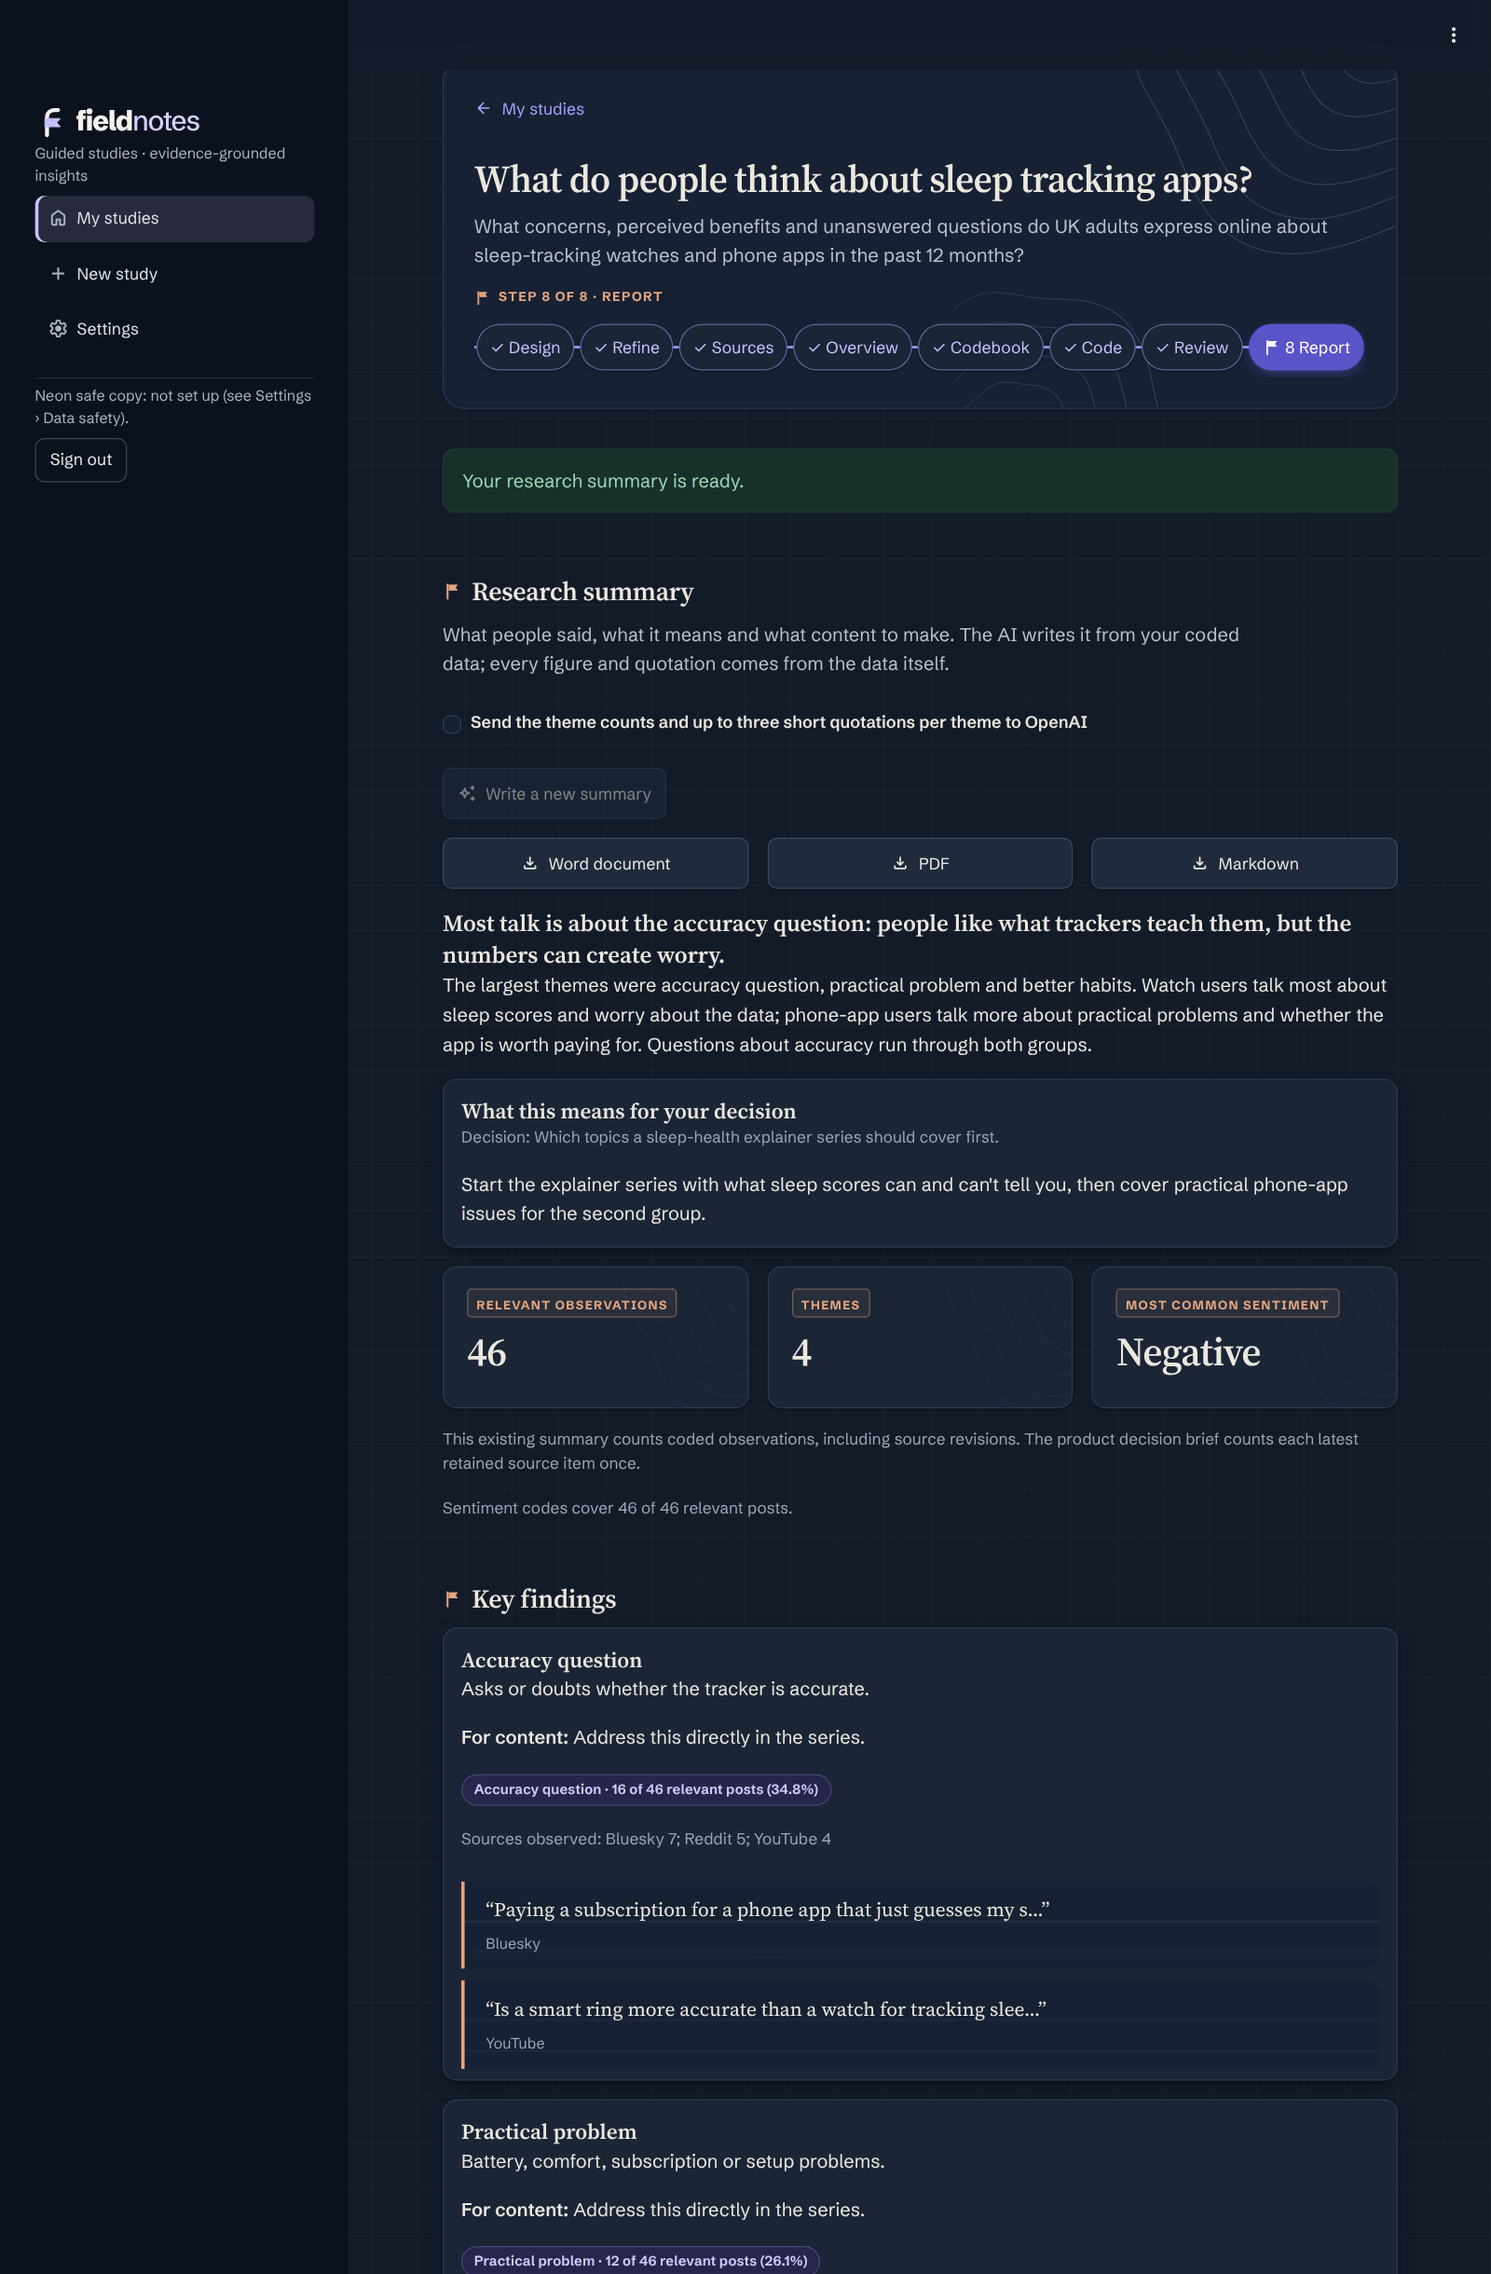
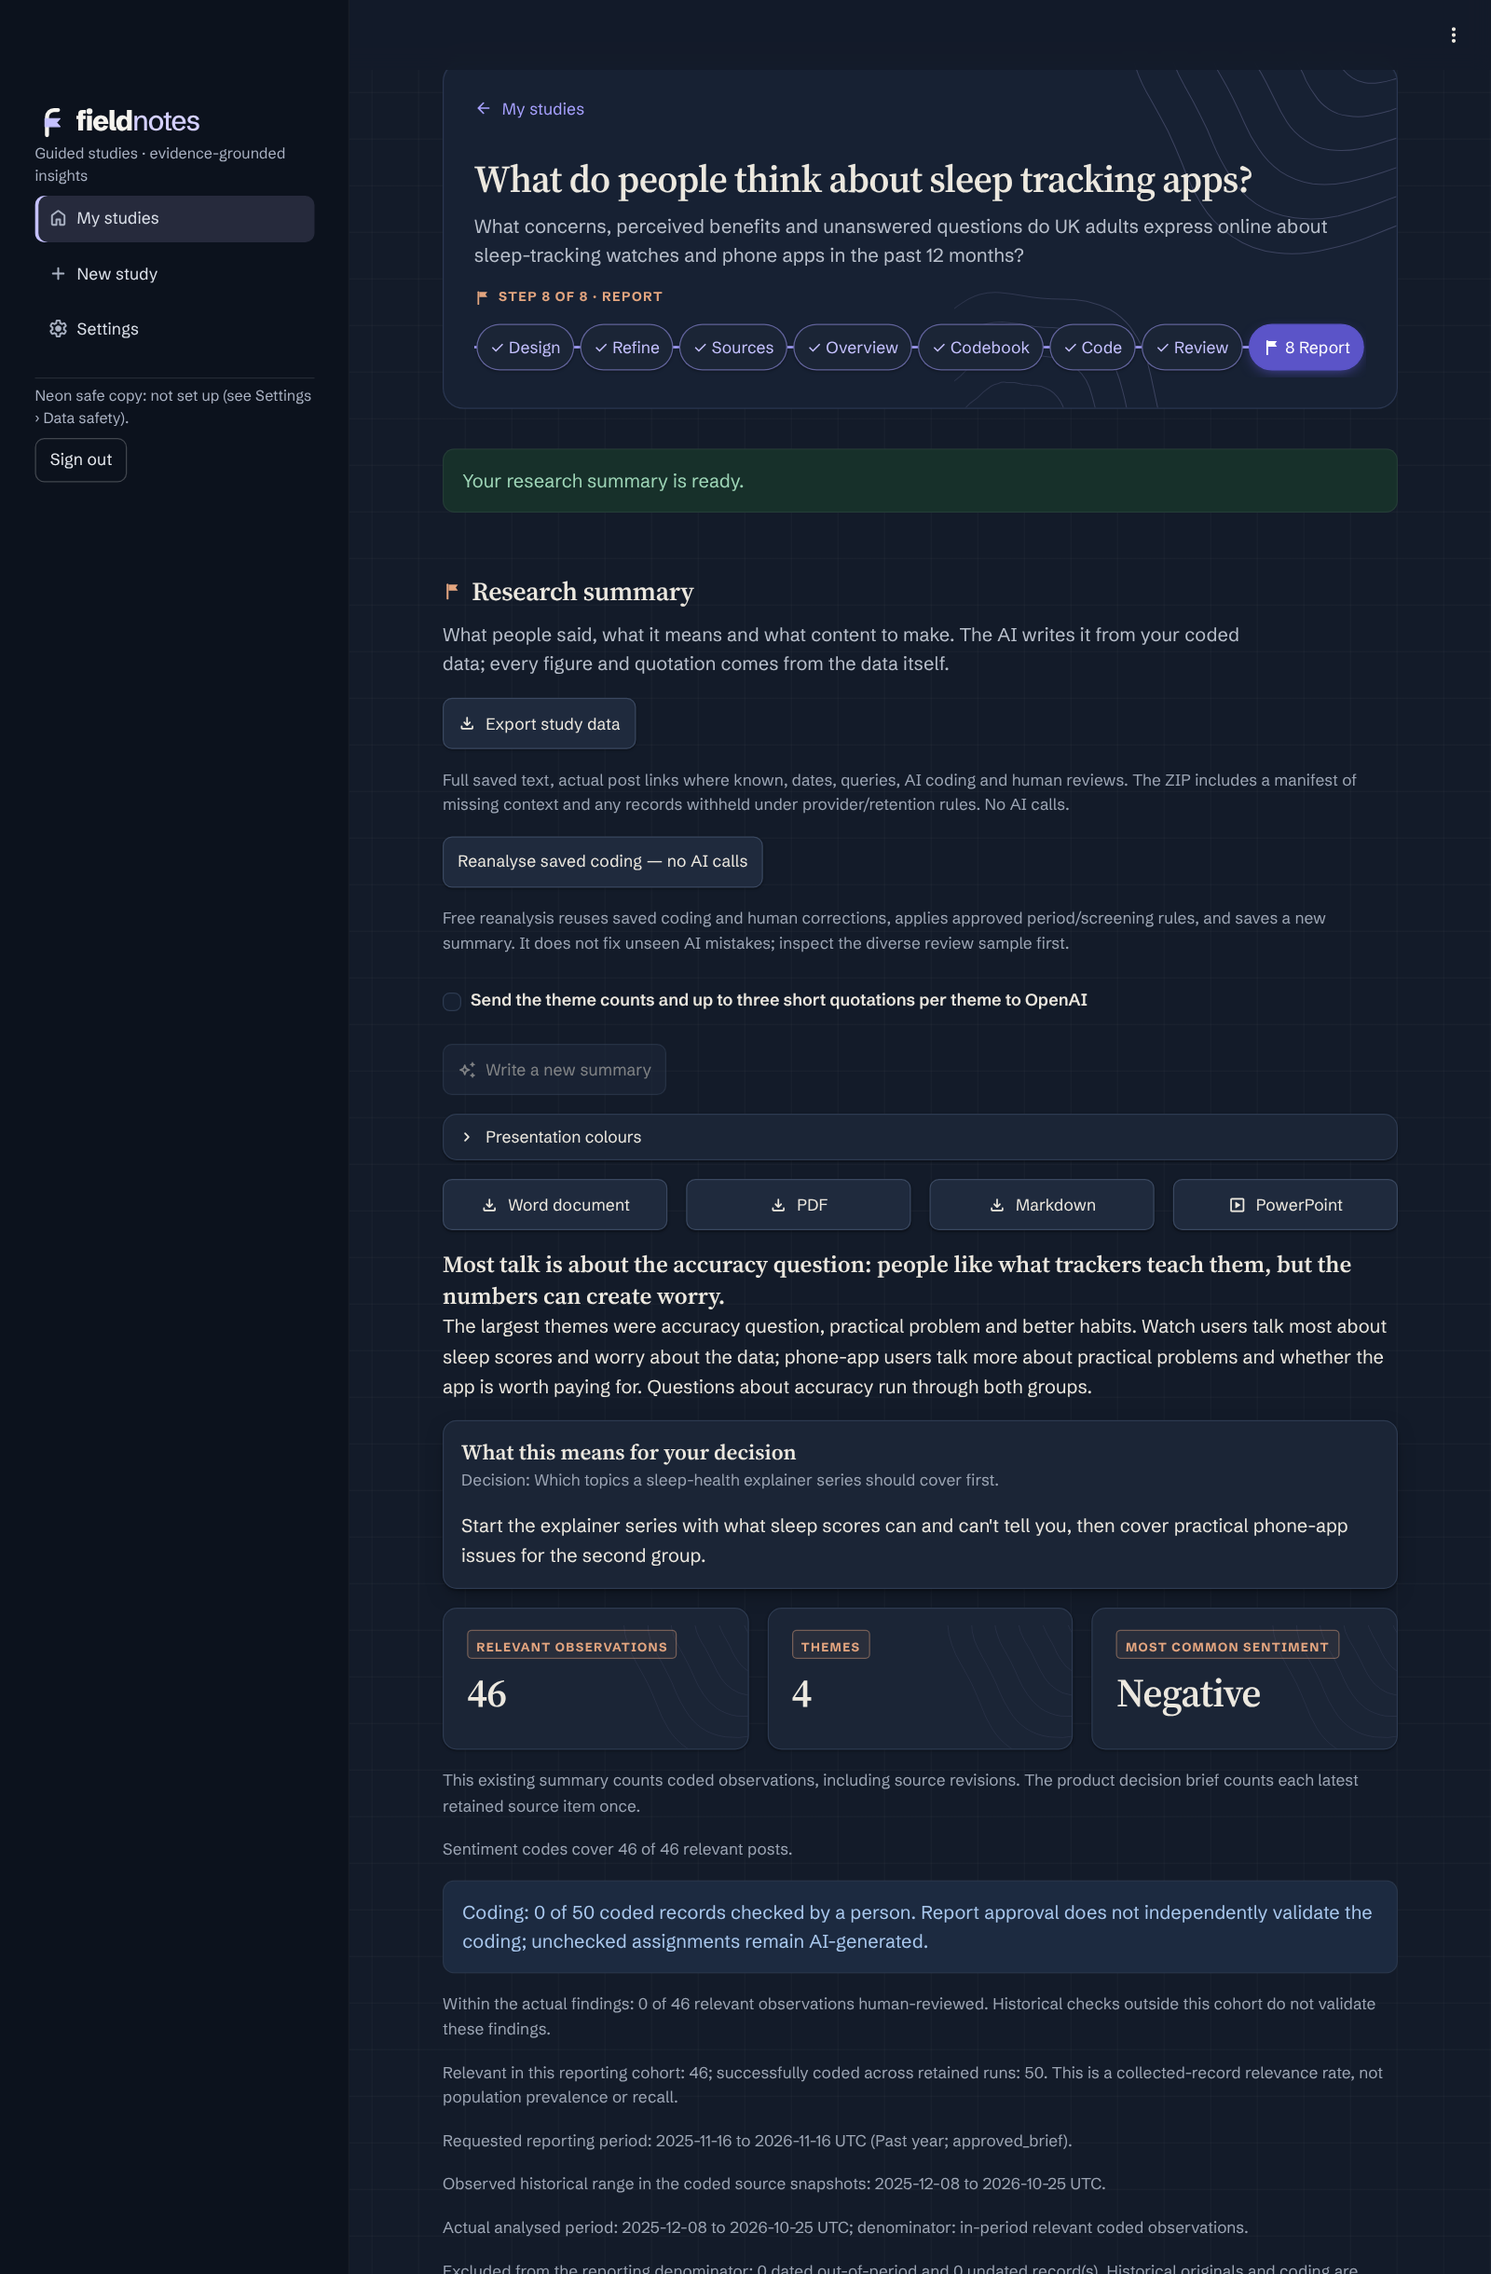
Showcase: detailed briefs, site searches, posts from Grok and Meta AI, raw-data downloads
- Design: start a study from a detailed research brief (new screenshot), and
  the default exclusions new studies start with.
- Sources: TikTok, YouTube, Instagram, Quora and Medium site searches through
  Brave; automatic saving for feed, Hacker News and Stack Exchange searches,
  with Stack Exchange answers and comments included; posts pasted in from
  Grok (X) or Meta AI (Instagram, Facebook, Threads), labelled and marked as
  not checked (new screenshot).
- Overview: download every saved record as Excel or CSV before or instead of
  coding, YouTube comments included (new screenshot).
- Report: the data story and the PowerPoint download.
- Settings: up to 16 records coded at once; the default-exclusions switch.
- Built with: the new sources, and Fieldnotes now runs on Render.
- Every screenshot retaken from the synthetic walkthrough, light and dark.

Claude-Session: https://claude.ai/code/session_01CeR1sjA2wPNMNXDF3YgZLE

Changed region(s): [[0.2812, 0.3115, 0.9062, 1.0], [0.75, 0.7164, 0.875, 0.7475], [0.5312, 0.7164, 0.5938, 0.7475]]

diff --git a/README.md b/README.md
@@ -24,14 +24,14 @@ your device's setting, and so do the screenshots on this page.
 
 | Step | What happens |
 | --- | --- |
-| **Design** | Type a rough question. AI drafts a research design: a precise question, the decision it informs, whose conversations count, the period, places and languages, and the kind of study. You check it and approve it. |
+| **Design** | Type a rough question, or paste a detailed research brief. AI drafts a research design: a precise question, the decision it informs, whose conversations count, the period, places and languages, and the kind of study. You check it and approve it. |
 | **Refine** | AI suggests sharper research questions and search terms within the design; you approve them. |
-| **Sources** | Search YouTube, Bluesky, X, the web, Reddit and Substack together, collect from RSS and Atom feeds, Hacker News, Stack Exchange and Instagram, or import exports from listening tools such as Brandwatch, Talkwalker, Meltwater and Sprout Social. |
-| **Overview** | A free first look: volume over time, platforms, most-used words, example posts, and whether the data fits your design. It also shows what is being counted: saved observations, distinct source items, extra versions of edited items and repeat observations. |
+| **Sources** | Search YouTube, Bluesky, X, the web, Reddit and Substack together, plus TikTok, YouTube, Instagram, Quora and Medium pages through web search. Collect from RSS and Atom feeds, Hacker News, Stack Exchange and Instagram, add posts that Grok or Meta AI found for you, or import exports from listening tools such as Brandwatch, Talkwalker, Meltwater and Sprout Social. |
+| **Overview** | A free first look: volume over time, platforms, most-used words, example posts, and whether the data fits your design. It also shows what is being counted: saved observations, distinct source items, extra versions of edited items and repeat observations. You can download every saved record as a spreadsheet and read it yourself, before or instead of coding. |
 | **Codebook** | AI drafts a codebook (themes, sentiment, relevance) that follows the design; you check and approve it. |
 | **Code** | Every post is coded by AI against the approved codebook, with a cost estimate first and live progress. |
 | **Review** | Check the posts the AI was unsure about, plus a spot check, one at a time. |
-| **Report** | A research summary with findings, what it means for your decision, audience needs and content ideas, downloadable as Word, PDF or Markdown. Below it, reviewable decision briefs, repeat studies, performance figures and an evidence export, closed until you open them. |
+| **Report** | A research summary with findings, what it means for your decision, audience needs and content ideas, downloadable as Word, PDF, Markdown or PowerPoint. Below it, reviewable decision briefs, repeat studies, performance figures and an evidence export, closed until you open them. |
 
 ## Where Fieldnotes fits
 
@@ -73,14 +73,15 @@ workflow, without a data licence.
 - **It keeps watching and repeats the study.** Scheduled checks add only new posts, code them with the same codebook
   and show what changed. Repeat studies compare periods only when the comparison is fair, and say when it isn't.
 - **Your data stays yours.** It lives in your own database, with a compressed safe copy and downloadable backups.
-  Codebooks export as JSON.
+  Codebooks export as JSON, and the saved records download as a spreadsheet at any step.
 
 ### Data without an enterprise data licence
 
 Fieldnotes works from sources you're already entitled to use: the official YouTube Data API, Bluesky's API, Brave
-Search, public RSS and Atom feeds, Hacker News, Stack Exchange and your own exports from listening tools. Reddit is
-reached only through search-result snippets, and public-feed collection is planned and approved before it runs.
-No scraping.
+Search, public RSS and Atom feeds, Hacker News, Stack Exchange and your own exports from listening tools. Reddit,
+TikTok, Quora and Medium are reached only through search-result snippets, and public-feed collection is planned and
+approved before it runs. Posts from Grok or Meta AI are ones you asked those assistants for and pasted in yourself,
+and they stay labelled as such. No scraping.
 
 "No licence fee" isn't the same as "no terms": each source's own rules still apply, and hosting, storage and AI
 costs are separate.
@@ -93,6 +94,22 @@ study: **exploratory**, **descriptive**, **comparative** (two or more groups, si
 **longitudinal** (change over time). Research templates and advanced designs are there when you need them.
 Searching, coding and the report all follow the approved design, and if the design changes after coding,
 every later step says so.
+
+**Start from a detailed brief.** If you've already written up your research, paste the whole brief (up to 20,000
+characters) instead of a question. Fieldnotes keeps it word for word with the study. It drafts the design from it,
+including secondary questions, hypotheses, competing explanations, themes, theories, your methodological instructions
+and suggested search terms. Your own instructions and keywords are kept exactly as you wrote them, and the later
+steps follow them: Refine suggests search terms and counterexample searches, the codebook covers the hypotheses, and
+the summary weighs the evidence for and against each one.
+
+<picture>
+  <source media="(prefers-color-scheme: dark)" srcset="images/dark/brief.png">
+  <img src="images/brief.png" alt="Start a study from a detailed research brief">
+</picture>
+
+New studies also start with sensible exclusions you can remove, such as news links shared without comment, adverts,
+reviews of films and games, academic papers, and jokes or spam. A default is skipped when it's what your study is
+about, and the coder gets each one as an explicit rule.
 
 <picture>
   <source media="(prefers-color-scheme: dark)" srcset="images/dark/design.png">
@@ -107,18 +124,33 @@ every later step says so.
 ## More places to listen
 
 One guided search covers several sources at once: YouTube, Bluesky, X (through xAI's X Search, which returns
-cited excerpts), the web, and Reddit and Substack (through Brave Search, as links and snippets). Fieldnotes can also
+cited excerpts), the web, and Reddit and Substack (through Brave Search, as links and snippets). Site searches add
+TikTok, YouTube, Instagram, Quora and Medium pages the same way, with `site:` and your terms; each keeps only pages
+from its own site. Fieldnotes can also
 collect from public RSS and Atom feeds, Hacker News and Stack Exchange, and from Instagram hashtags and
 professional accounts through Meta's official API once Meta has approved the app. It suggests feeds that match
 your research question, picks the Stack Exchange site that fits your topic (Psychology & Neuroscience, Philosophy,
 Parenting and others), and can suggest Instagram hashtags with AI and check with Meta that each one is active
 before it is searched. The sources run at the same time, and a large X search is split into smaller requests, so a
-search takes about as long as its slowest source. Every collection is planned and approved first, and each source
-states exactly what it can and can't filter, so nothing is implied that didn't happen.
+search takes about as long as its slowest source. Searches that include feeds, Hacker News or Stack Exchange save
+their results straight away, using all your saved terms, and Stack Exchange answers and comments are included unless
+you untick them. Every collection is planned and approved first, and each source states exactly what it can and can't
+filter, so nothing is implied that didn't happen.
 
 <picture>
   <source media="(prefers-color-scheme: dark)" srcset="images/dark/sources.png">
   <img src="images/sources.png" alt="Search sources together">
+</picture>
+
+**Posts from Grok and Meta AI.** Grok can read X, and Meta AI can read Instagram, Facebook and Threads, better than a
+web search. Fieldnotes gives you a ready-made request asking for the raw posts, with exact wording and links. You paste
+the reply and press Save, then paste the next. Fieldnotes reads the reply without AI and labels each post from its
+link, such as "X (via Grok)" or "Instagram (via Meta AI)". Assistants can misquote or invent posts, so these stay
+marked as not checked, and by default only posts with a link to the platform are added.
+
+<picture>
+  <source media="(prefers-color-scheme: dark)" srcset="images/dark/ai-posts.png">
+  <img src="images/ai-posts.png" alt="Add posts from Grok or Meta AI">
 </picture>
 
 ## See the data before you spend anything
@@ -128,11 +160,25 @@ states exactly what it can and can't filter, so nothing is implied that didn't h
   <img src="images/overview.png" alt="Overview">
 </picture>
 
+**Read the raw data yourself.** Download every saved record as an Excel or CSV file, one row per record: date,
+source, type, title, full saved text, link, author or channel and search term. It's there before coding, so you can
+skip coding entirely if you'd rather read the posts. YouTube videos and comments are included. Anything a source's
+rules hold back, such as YouTube data past its 28-day refresh, is left out and counted.
+
+<picture>
+  <source media="(prefers-color-scheme: dark)" srcset="images/dark/records.png">
+  <img src="images/records.png" alt="Download the saved records">
+</picture>
+
 ## A research summary built on checked evidence
 
 The app calculates every figure and picks every quotation from the coded data itself. The AI writes only
 the prose: the headline, findings, what this means for your decision, what the audience wants to know and
 what content to make. Any figure the AI states that the data doesn't back up is flagged.
+
+Each report leads with a data story: the summary, a theme chart with the number it's out of, the dates and selection
+it covers, and examples you can trace back to the saved post. Download it as Word, PDF or Markdown, or as PowerPoint
+with editable charts and each quotation's full context in the speaker notes.
 
 <picture>
   <source media="(prefers-color-scheme: dark)" srcset="images/dark/report-summary.png">
@@ -323,10 +369,11 @@ Each tool adds its controls only where they're used.
 
 | Setting | What it does | Why it's there |
 | --- | --- | --- |
-| **Records coded at once** | How many posts the AI codes in parallel, from 1 to 8. | More is faster. Lower it if OpenAI reports rate limits for your account. |
+| **Records coded at once** | How many posts the AI codes in parallel, from 1 to 16. | More is faster. Lower it if OpenAI reports rate limits for your account. |
 | **Posted in** | The default period for live searches: past week, month, 3 months, year, or any time. | Used when a study's design hasn't set a period yet. |
 | **How much to search** | Light, Standard or Deep. Standard is up to 10 videos with 20 comments each, 100 Bluesky posts and one page of web results. Deep is 25 videos, 50 comments, 200 posts and two pages. | Balances coverage against API quota and cost. |
 | **Connections** | Shows whether OpenAI, YouTube, Bluesky and Brave Search are set up, plus Brave's monthly usage against its cap. Keys are never shown. | So you know which sources a search can use before you run it. |
+| **Default exclusions for new studies** | Adds the standard "posts that don't count" to each new study (news links without comment, adverts, reviews of fiction, academic papers, jokes and spam). On by default. | Most studies want first-hand views; you can still remove any default in a study. |
 | **Data safety** | Shows whether the compressed safe copy in Neon Postgres is on and up to date, and links to backups, copies and restore. | Research data is the one thing that can't be recreated, so its protection is always visible. |
 
 ## Works on a phone
@@ -339,10 +386,11 @@ Each tool adds its controls only where they're used.
 ## Built with
 
 Python and Streamlit. Coding and summaries use OpenAI, with strict structured outputs checked against
-the codebook. Sources come from the YouTube Data API, Bluesky, xAI's X Search, Brave Search (the web, Reddit and Substack),
-Meta's Instagram Graph API, public RSS and Atom feeds, Hacker News and Stack Exchange. Data is stored in SQLite, with a compressed safe copy in Neon Postgres.
+the codebook. Sources come from the YouTube Data API, Bluesky, xAI's X Search, Brave Search (the web, Reddit, Substack,
+TikTok, YouTube, Instagram, Quora and Medium), Meta's Instagram Graph API, public RSS and Atom feeds, Hacker News and
+Stack Exchange, plus posts you paste in from Grok or Meta AI. Data is stored in SQLite, with a compressed safe copy in Neon Postgres.
 Finished reports can also be published, after you approve them, in a structured format that
-other agents in a marketing stack workflow can read. Fieldnotes runs on Replit; the demo runs on Streamlit Community Cloud.
+other agents in a marketing stack workflow can read. Fieldnotes runs on Render; the demo runs on Streamlit Community Cloud.
 
 ## About this repository
 
